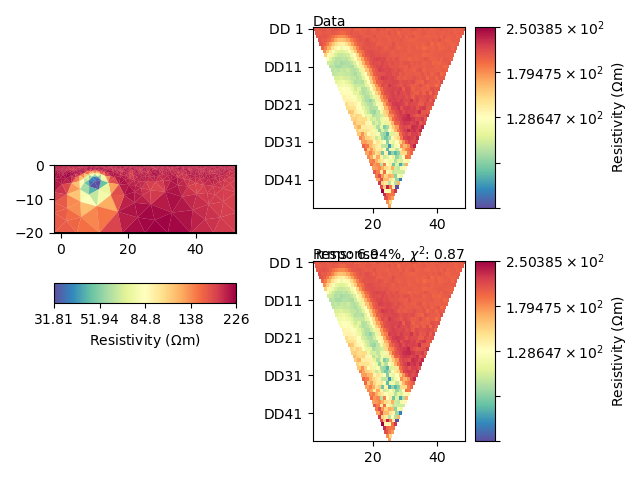
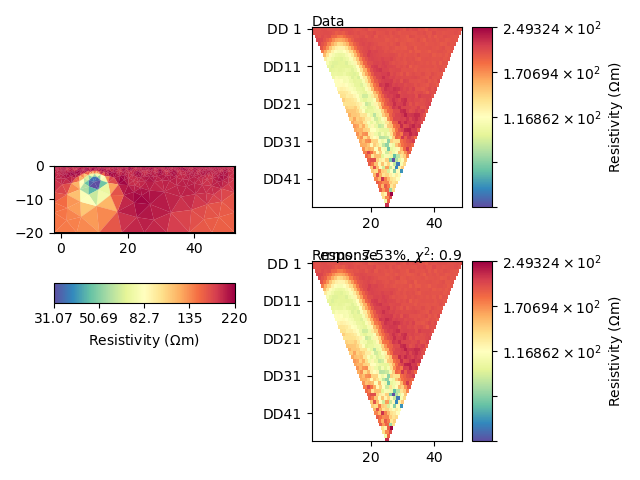
feat: progress in ert triangular examples

diff --git a/notebooks/pygimli_ert/pygimli_ert_gauss_newton_armijo_linesearch.py b/notebooks/pygimli_ert/pygimli_ert_gauss_newton_armijo_linesearch.py
@@ -71,7 +71,8 @@ class GaussNewtonArmjioLineaSearch(BaseSolver):
         __params = inv_options.get_params()
         self._niter = __params.get("niter", 100)
         self._verbose = __params.get("verbose", True)
-        self._step = __params.get("step", 1)
+        self._tau_tol = __params.get("tau_tol", 1e-5)
+        self._update_tol = __params.get("update_tol", 1e-5)
         self._model_0 = inv_problem.initial_model
         self._residual = inv_problem.residual
         self._jacobian = inv_problem.jacobian
@@ -83,9 +84,10 @@ class GaussNewtonArmjioLineaSearch(BaseSolver):
 
     def __call__(self):
         current_model = np.array(self._model_0)
-        tau=1.0
+        tau = 1
 
         for i in range(self._niter):
+            tau = 1
             if self._verbose:
                 print("-" * 80)
                 print(f"Iteration {i+1}")
@@ -100,24 +102,24 @@ class GaussNewtonArmjioLineaSearch(BaseSolver):
             print("line search")
 
             # Reduce tau to ensure positivity (the following block is problem specific)
-            while (tau > 1.0e-5):
+            while (tau > self._tau_tol):
                 trial_model = current_model + model_update*tau
                 if (np.min(np.exp(trial_model))>1.0):
                     break
-                tau=tau*0.5
+                tau = tau * 0.5
 
             # Armjio Line search
-            while (tau > 1.0e-5):          
+            while (tau > self._tau_tol):          
                 trial_model = current_model + model_update*tau
                 trial_obj = self._obj(trial_model)
                 print(f"tau {tau} current_obj {current_obj} trial_obj {trial_obj} |dm| {np.linalg.norm(model_update*tau,2)}")
                 if trial_obj<current_obj:
                     current_model = trial_model
                     break
-                tau=tau*0.5
+                tau = tau * 0.5
 
             # the following block is problem specific
-            if (np.linalg.norm(np.exp(model_update),2) < 1.0e-5) or (tau < 1.0e-5):
+            if (np.linalg.norm(model_update*tau,2) < self._update_tol) or (tau < self._tau_tol):
                 break
 
         return {"model": current_model, "success": True}
@@ -127,6 +129,8 @@ class GaussNewtonArmjioLineaSearch(BaseSolver):
 # hyperparameters
 lamda = 0.0005
 inv_verbose = True
+tau_tol = 1e-3
+update_tol = 1e-1
 
 # CoFI - define BaseProblem
 ert_problem = BaseProblem()
@@ -143,7 +147,7 @@ ert_problem.set_initial_model(start_model_log)
 # CoFI - define InversionOptions
 inv_options = InversionOptions()
 inv_options.set_tool(GaussNewtonArmjioLineaSearch)
-inv_options.set_params(verbose=inv_verbose)
+inv_options.set_params(verbose=inv_verbose, tau_tol=tau_tol, update_tol=update_tol)
 
 # CoFI - define Inversion, run it
 inv = Inversion(ert_problem, inv_options)
@@ -158,6 +162,6 @@ ax[0].figure.savefig("figs/gauss_newton_armijo_linesearch_inferred_model")
 
 # plot synthetic data
 d = forward_oprt.response(model)
-ax = ert.showERTData(scheme, vals=d)
+ax = ert.showERTData(scheme, vals=d, cMin=np.min(data["rhoa"]), cMax=np.max(data["rhoa"]))
 ax[0].set_title("Synthetic data from inferred model")
 ax[0].figure.savefig("figs/gauss_newton_armjio_linesearch_inferred_data")

diff --git a/notebooks/pygimli_ert/pygimli_ert_inbuilt_invert.py b/notebooks/pygimli_ert/pygimli_ert_inbuilt_invert.py
@@ -1,3 +1,4 @@
+import numpy as np
 import pygimli
 from pygimli.physics import ert
 
@@ -37,5 +38,17 @@ fig = mgr.showResultAndFit()
 fig.savefig("figs/inbuilt_solver_result")
 
 Wm = reg_matrix(mgr.fop)
-print("data misfit:", get_data_misfit(inv, log_data, mgr.fop, data_cov_inv))
-print("regularisation:", get_regularisation(inv, Wm, 0.005))
+print("data misfit:", get_data_misfit(np.log(inv), log_data, mgr.fop, data_cov_inv))
+print("regularisation:", get_regularisation(np.log(inv), Wm, 0.0005))
+
+# plot inferred model
+ax = pygimli.show(mgr.paraDomain, data=inv, label=r"$\Omega m$")
+ax[0].set_title("Inferred model")
+ax[0].figure.savefig("figs/inbuilt_solver_inferred_model")
+
+# plot synthetic data
+d = mgr.fop.response(inv)
+ax = ert.showERTData(scheme, vals=d, cMin=np.min(data["rhoa"]), cMax=np.max(data["rhoa"]))
+ax[0].set_title("Synthetic data from inferred model")
+ax[0].figure.savefig("figs/inbuilt_solver_inferred_data")
+

diff --git a/notebooks/pygimli_ert/pygimli_ert_gauss_newton.py b/notebooks/pygimli_ert/pygimli_ert_gauss_newton.py
@@ -101,7 +101,7 @@ class GaussNewton(BaseSolver):
 
 # hyperparameters
 lamda = 0.0005
-niter = 100
+niter = 150
 inv_verbose = True
 step = 0.01
 
@@ -135,6 +135,6 @@ ax[0].figure.savefig("figs/gauss_newton_inferred_model")
 
 # plot synthetic data
 d = forward_oprt.response(model)
-ax = ert.showERTData(scheme, vals=d)
+ax = ert.showERTData(scheme, vals=d, cMin=np.min(data["rhoa"]), cMax=np.max(data["rhoa"]))
 ax[0].set_title("Synthetic data from inferred model")
 ax[0].figure.savefig("figs/gauss_newton_inferred_data")

diff --git a/notebooks/pygimli_ert/pygimli_ert_scipy_min.py b/notebooks/pygimli_ert/pygimli_ert_scipy_min.py
@@ -96,6 +96,6 @@ ax[0].figure.savefig("figs/scipy_opt_inferred_model")
 
 # plot synthetic data
 d = forward_oprt.response(model)
-ax = ert.showERTData(scheme, vals=d)
+ax = ert.showERTData(scheme, vals=d, cMin=np.min(data["rhoa"]), cMax=np.max(data["rhoa"]))
 ax[0].set_title("Synthetic data from inferred model")
 ax[0].figure.savefig("figs/scipy_opt_inferred_data")
